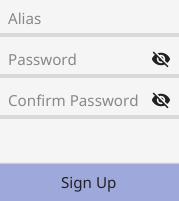
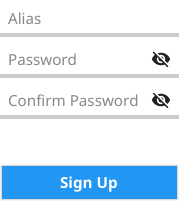
Improve authentication UX

Changed region(s): [[0.0, 0.806, 1.0, 1.0]]

diff --git a/fyne.go b/fyne.go
@@ -39,9 +39,12 @@ import (
 )
 
 type BCFyne struct {
-	App    fyne.App
-	Window fyne.Window
-	Dialog dialog.Dialog
+	App          fyne.App
+	Window       fyne.Window
+	Dialog       dialog.Dialog
+	OnImportKeys func(string)
+	OnSignIn     func(*bcgo.Node)
+	OnSignUp     func(*bcgo.Node)
 }
 
 func (f *BCFyne) ExistingNode(client *bcclientgo.BCClient, alias string, password []byte, callback func(*bcgo.Node)) {
@@ -140,7 +143,7 @@ func (f *BCFyne) NewNode(client *bcclientgo.BCClient, alias string, password []b
 		Channels: make(map[string]*bcgo.Channel),
 	}
 
-	// Create Progress Dialog
+	// Display Progress Dialog
 	progress := dialog.NewProgress("Registering", "Registering "+alias, f.Window)
 	progress.Show()
 	defer progress.Hide()
@@ -156,26 +159,7 @@ func (f *BCFyne) NewNode(client *bcclientgo.BCClient, alias string, password []b
 }
 
 func (f *BCFyne) ShowAccessDialog(client *bcclientgo.BCClient, callback func(*bcgo.Node)) {
-	var aliases []string
-
-	rootDir, err := client.GetRoot()
-	if err != nil {
-		log.Println(err)
-	} else {
-		keystore, err := bcgo.GetKeyDirectory(rootDir)
-		if err != nil {
-			log.Println(err)
-		} else {
-			keys, err := cryptogo.ListRSAPrivateKeys(keystore)
-			if err != nil {
-				log.Println(err)
-			} else {
-				aliases = keys
-			}
-		}
-	}
-
-	signIn := account.NewSignIn(aliases)
+	signIn := account.NewSignIn()
 	importKey := account.NewImportKey()
 	signUp := account.NewSignUp()
 	if f.Dialog != nil {
@@ -188,17 +172,10 @@ func (f *BCFyne) ShowAccessDialog(client *bcclientgo.BCClient, callback func(*bc
 			widget.NewAccordionItem("Sign Up", signUp.CanvasObject()),
 		), f.Window)
 
-	if alias, err := bcgo.GetAlias(); err == nil {
-		signIn.Alias.SetText(alias)
-		importKey.Alias.SetText(alias)
-		signUp.Alias.SetText(alias)
-	}
-	if pwd, ok := os.LookupEnv("PASSWORD"); ok {
-		signIn.Password.SetText(pwd)
-		// TODO if alias was also set auto click
-	}
 	signIn.SignInButton.OnTapped = func() {
-		f.Dialog.Hide()
+		if f.Dialog != nil {
+			f.Dialog.Hide()
+		}
 		log.Println("Sign In Tapped")
 		alias := signIn.Alias.Text
 		password := []byte(signIn.Password.Text)
@@ -206,20 +183,40 @@ func (f *BCFyne) ShowAccessDialog(client *bcclientgo.BCClient, callback func(*bc
 			f.ShowError(errors.New(fmt.Sprintf(cryptogo.ERROR_PASSWORD_TOO_SHORT, len(password), cryptogo.MIN_PASSWORD)))
 			return
 		}
-		f.ExistingNode(client, alias, password, callback)
+		f.ExistingNode(client, alias, password, func(node *bcgo.Node) {
+			callback(node)
+			if c := f.OnSignIn; c != nil {
+				go c(node)
+			}
+		})
 	}
 	importKey.ImportKeyButton.OnTapped = func() {
-		f.Dialog.Hide()
+		if f.Dialog != nil {
+			f.Dialog.Hide()
+		}
 		log.Println("Import Key Tapped")
+
 		host := bcgo.GetBCWebsite()
 		alias := importKey.Alias.Text
 		access := importKey.Access.Text
+
+		// Display Progress Dialog
+		progress := dialog.NewProgress("Importing", "Importing "+alias, f.Window)
+		progress.Show()
+		defer progress.Hide()
+
 		if err := client.ImportKeys(host, alias, access); err != nil {
 			f.ShowError(err)
+			return
+		}
+		if c := f.OnImportKeys; c != nil {
+			go c(alias)
 		}
 	}
 	signUp.SignUpButton.OnTapped = func() {
-		f.Dialog.Hide()
+		if f.Dialog != nil {
+			f.Dialog.Hide()
+		}
 		log.Println("Sign Up Tapped")
 		alias := signUp.Alias.Text
 		password := []byte(signUp.Password.Text)
@@ -239,13 +236,48 @@ func (f *BCFyne) ShowAccessDialog(client *bcclientgo.BCClient, callback func(*bc
 			f.ShowError(errors.New(cryptogo.ERROR_PASSWORDS_DO_NOT_MATCH))
 			return
 		}
-		f.NewNode(client, alias, password, callback)
+		f.NewNode(client, alias, password, func(node *bcgo.Node) {
+			callback(node)
+			if c := f.OnSignUp; c != nil {
+				go c(node)
+			}
+		})
 	}
+
+	rootDir, err := client.GetRoot()
+	if err != nil {
+		log.Println(err)
+	} else {
+		keystore, err := bcgo.GetKeyDirectory(rootDir)
+		if err != nil {
+			log.Println(err)
+		} else {
+			keys, err := cryptogo.ListRSAPrivateKeys(keystore)
+			if err != nil {
+				log.Println(err)
+			} else if len(keys) > 0 {
+				signIn.Alias.SetOptions(keys)
+				signIn.Alias.SetText(keys[0])
+				importKey.Alias.SetText(keys[0])
+				signUp.Alias.SetText(keys[0])
+			}
+		}
+	}
+
+	if alias, ok := os.LookupEnv("ALIAS"); ok {
+		signIn.Alias.SetText(alias)
+		importKey.Alias.SetText(alias)
+		signUp.Alias.SetText(alias)
+	}
+
+	if pwd, ok := os.LookupEnv("PASSWORD"); ok {
+		signIn.Password.SetText(pwd)
+	}
+
 	f.Dialog.Show()
 }
 
 func (f *BCFyne) ShowAccount(client *bcclientgo.BCClient) {
-	log.Println("ShowAccount")
 	node, err := f.GetNode(client)
 	if err != nil {
 		f.ShowError(err)
@@ -254,20 +286,50 @@ func (f *BCFyne) ShowAccount(client *bcclientgo.BCClient) {
 	box := widget.NewVBox(
 		f.nodeUI(node),
 		widget.NewButton("Export Keys", func() {
-			access, err := client.ExportKeys(bcgo.GetBCWebsite(), node.Alias)
-			if err != nil {
-				f.ShowError(err)
-				return
+			authentication := account.NewAuthentication(node.Alias)
+			authentication.AuthenticateButton.OnTapped = func() {
+				if f.Dialog != nil {
+					f.Dialog.Hide()
+				}
+
+				// Display Progress Dialog
+				progress := dialog.NewProgress("Exporting", "Exporting "+node.Alias, f.Window)
+				progress.Show()
+
+				password := []byte(authentication.Password.Text)
+				if len(password) < cryptogo.MIN_PASSWORD {
+					f.ShowError(errors.New(fmt.Sprintf(cryptogo.ERROR_PASSWORD_TOO_SHORT, len(password), cryptogo.MIN_PASSWORD)))
+					return
+				}
+				access, err := client.ExportKeys(bcgo.GetBCWebsite(), node.Alias, password)
+				if err != nil {
+					f.ShowError(err)
+					return
+				}
+
+				progress.Hide()
+
+				form := widget.NewForm(
+					widget.NewFormItem("Alias", widget.NewLabel(node.Alias)),
+					widget.NewFormItem("Access Code", widget.NewLabel(access)),
+				)
+				dialog.ShowCustom("Export Keys", "OK", form, f.Window)
 			}
-			info := fmt.Sprintf("Alias: %s\nAccess Code: %s", node.Alias, access)
-			dialog := dialog.NewInformation("Export Keys", info, f.Window)
-			dialog.Show()
+			dialog.ShowCustom("Account", "Cancel", authentication.CanvasObject(), f.Window)
 		}),
 		widget.NewButton("Switch Keys", func() {
-			// TODO
-			f.ShowError(fmt.Errorf("Not yet implemented: %s", "BCFyne.Account.SwitchKeys"))
+			if f.Dialog != nil {
+				f.Dialog.Hide()
+			}
+			client.Root = ""
+			client.Cache = nil
+			client.Network = nil
+			client.Node = nil
 		}),
 		widget.NewButton("Delete Keys", func() {
+			if f.Dialog != nil {
+				f.Dialog.Hide()
+			}
 			// TODO
 			f.ShowError(fmt.Errorf("Not yet implemented: %s", "BCFyne.Account.DeleteKeys"))
 		}),
@@ -290,7 +352,6 @@ func (f *BCFyne) ShowError(err error) {
 }
 
 func (f *BCFyne) ShowNode(node *bcgo.Node) {
-	log.Println("ShowNode")
 	form := f.nodeUI(node)
 	if f.Dialog != nil {
 		f.Dialog.Hide()

diff --git a/ui/account/authentication.go b/ui/account/authentication.go
@@ -22,33 +22,31 @@ import (
 	"fyne.io/fyne/widget"
 )
 
-type SignIn struct {
-	Alias        *widget.SelectEntry
-	Password     *widget.Entry
-	SignInButton *widget.Button
+type Authentication struct {
+	Alias              *widget.Label
+	Password           *widget.Entry
+	AuthenticateButton *widget.Button
 }
 
-func NewSignIn() *SignIn {
-	s := &SignIn{
-		Alias:    widget.NewSelectEntry([]string{}),
+func NewAuthentication(alias string) *Authentication {
+	s := &Authentication{
+		Alias:    widget.NewLabel(alias),
 		Password: widget.NewPasswordEntry(),
-		SignInButton: &widget.Button{
+		AuthenticateButton: &widget.Button{
 			Style: widget.PrimaryButton,
-			Text:  "Sign In",
+			Text:  "Authenticate",
 		},
 	}
-	s.Alias.SetPlaceHolder("Alias")
 	s.Password.SetPlaceHolder("Password")
-	// TODO Alias is single line, handle enter key by moving to password
 	// TODO Password is single line, handle enter key by moving to button/auto click
 	return s
 }
 
-func (s *SignIn) CanvasObject() fyne.CanvasObject {
+func (s *Authentication) CanvasObject() fyne.CanvasObject {
 	return fyne.NewContainerWithLayout(layout.NewGridLayout(1),
 		s.Alias,
 		s.Password,
 		layout.NewSpacer(),
-		s.SignInButton,
+		s.AuthenticateButton,
 	)
 }

diff --git a/ui/ui_test.go b/ui/ui_test.go
@@ -34,6 +34,11 @@ func Test_UI(t *testing.T) {
 	for name, tt := range map[string]struct {
 		builder func(fyne.Window) fyne.CanvasObject
 	}{
+		"account/authentication": {
+			builder: func(w fyne.Window) fyne.CanvasObject {
+				return account.NewAuthentication("Alice").CanvasObject()
+			},
+		},
 		"account/import_key": {
 			builder: func(w fyne.Window) fyne.CanvasObject {
 				return account.NewImportKey().CanvasObject()
@@ -41,12 +46,15 @@ func Test_UI(t *testing.T) {
 		},
 		"account/sign_in": {
 			builder: func(w fyne.Window) fyne.CanvasObject {
-				return account.NewSignIn(nil).CanvasObject()
+				return account.NewSignIn().CanvasObject()
 			},
 		},
 		"account/sign_in_existing": {
 			builder: func(w fyne.Window) fyne.CanvasObject {
-				return account.NewSignIn([]string{"Alice"}).CanvasObject()
+				s := account.NewSignIn()
+				s.Alias.SetOptions([]string{"Alice"})
+				s.Alias.SetText("Alice")
+				return s.CanvasObject()
 			},
 		},
 		"account/sign_up": {
